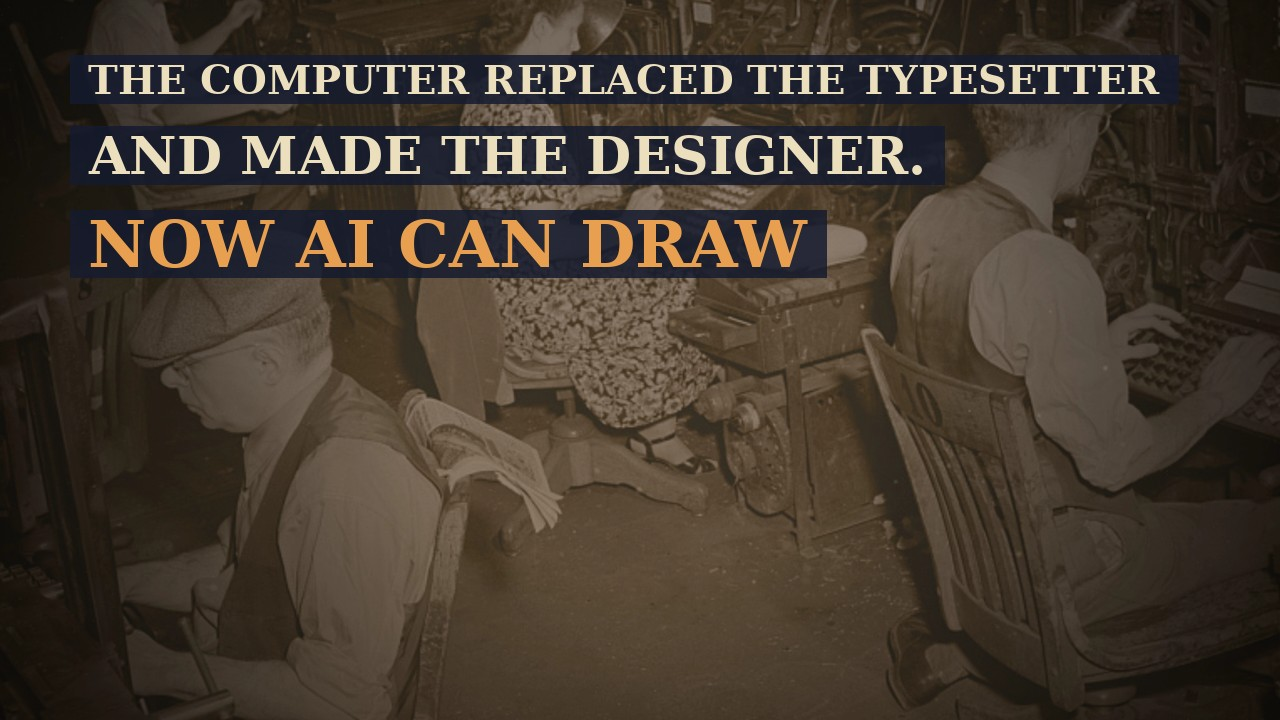
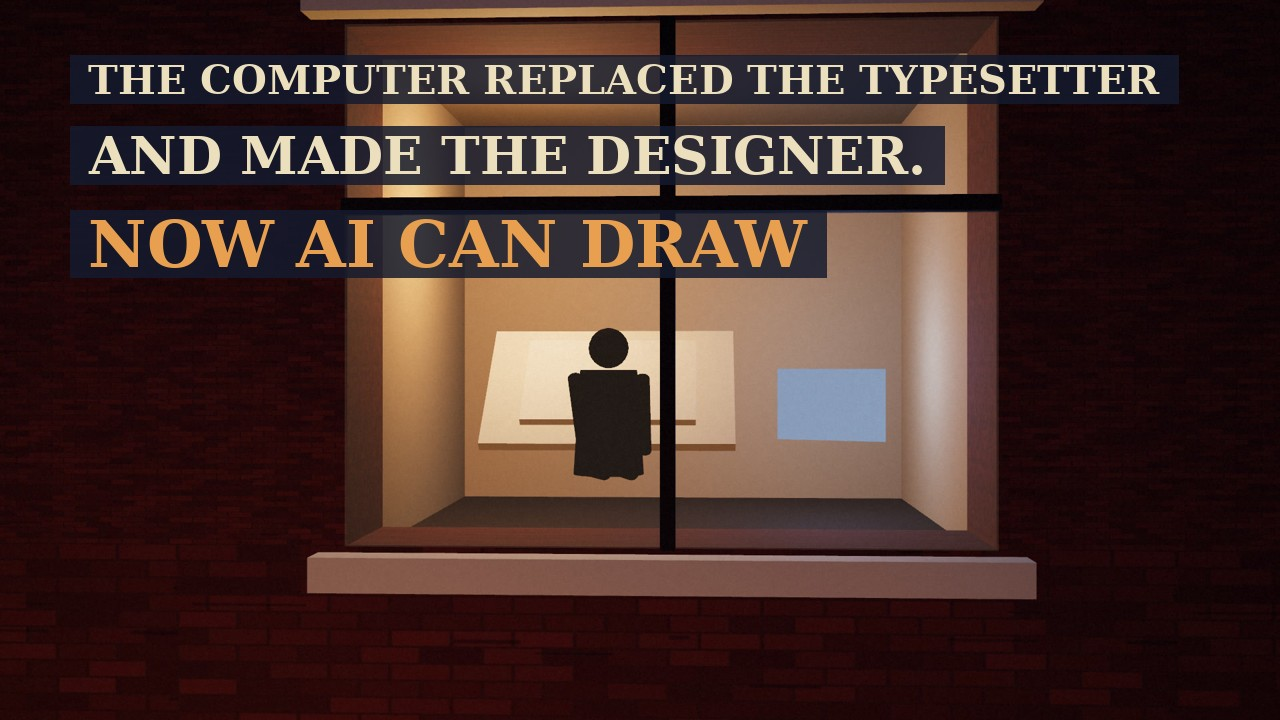
Tập 6 v2: âm thanh nghề cho cảnh tường bản nháp đoạn 10 (Q28); thumbnail mới từ cảnh đinh (ô cửa người vẽ, tường bản nháp)
Claude-Session: https://claude.ai/code/session_01UnwoWZcu5N4WE8S7N6UWJL

diff --git a/reports/m3/ep06/phat-hanh/make_thumb.py b/reports/m3/ep06/phat-hanh/make_thumb.py
@@ -1,6 +1,6 @@
 #!/opt/cine/bin/python
 """Thumbnail tập 6 (1280×720) từ khung trung gian, dựng bằng scripts/ll/thumb.py (lề an toàn 5 %).
-python make_thumb.py <thư mục ra> <khung T1> <khung T2>   (T1: ảnh phòng sắp chữ, đoạn 02; T2: cảnh bàn làm việc 2025, đoạn 06)"""
+python make_thumb.py <thư mục ra> <khung T1> <khung T2>   (v2: T1 = cảnh đinh shop_hook khung 280 — ô cửa người vẽ, cùng khung móc câu 0:00; T2 = wall_push khung 420 — tường bản nháp)"""
 import sys
 sys.path.insert(0, __file__.rsplit('/reports/', 1)[0] + '/scripts/ll')
 from PIL import Image
